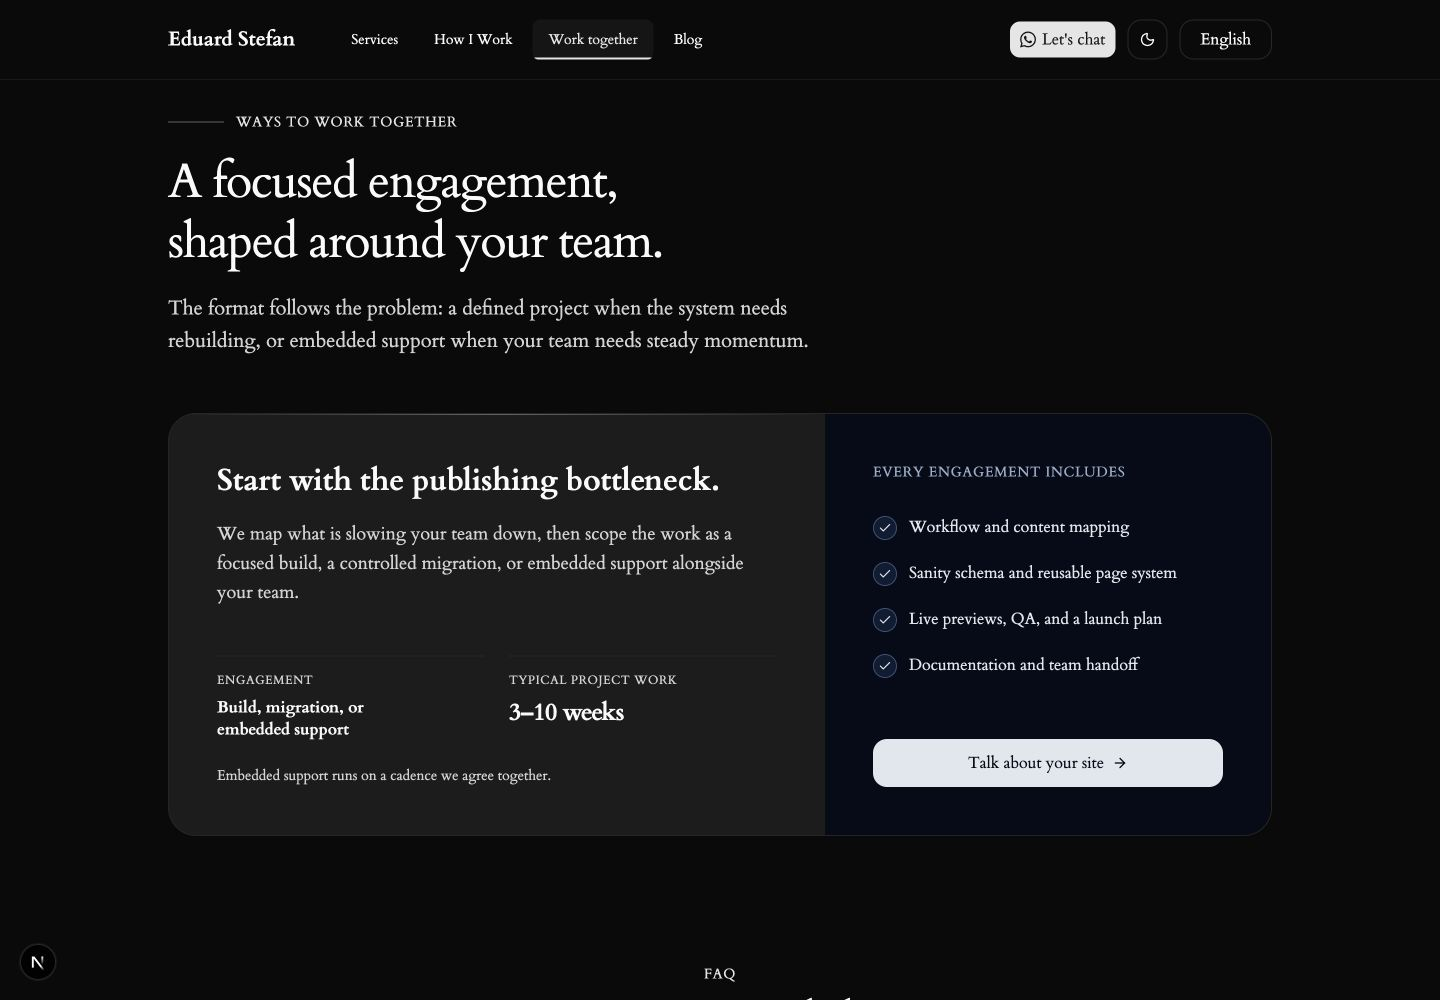
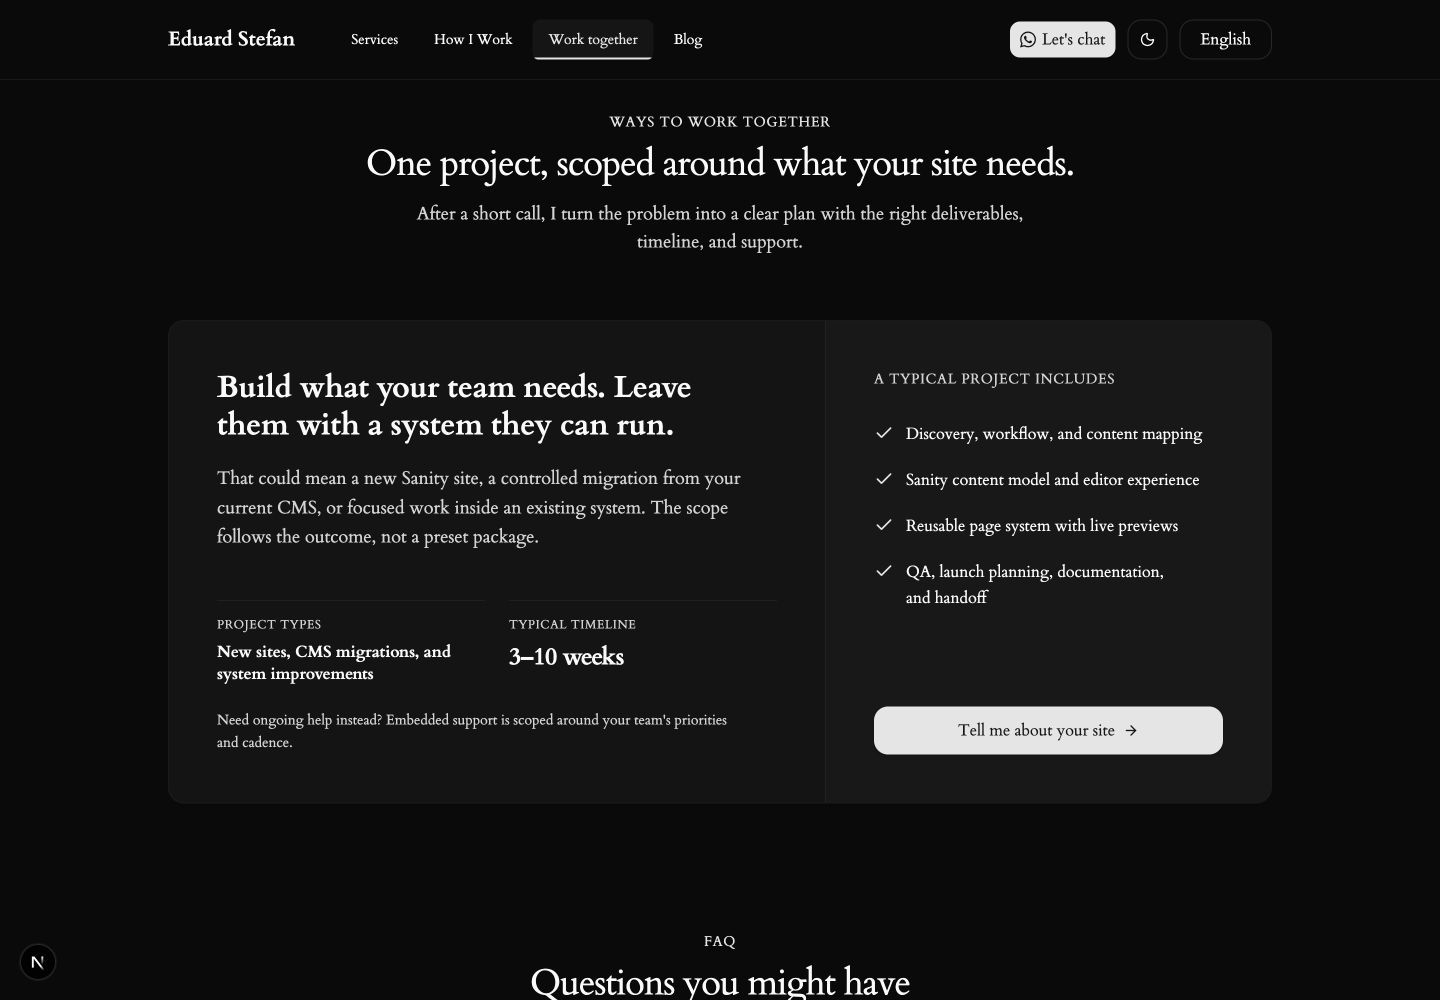
refine ways to work together design and copy

diff --git a/frontend/components/sections/ways-to-work-together-section.tsx b/frontend/components/sections/ways-to-work-together-section.tsx
@@ -1,5 +1,7 @@
 import { AnimatedContainer } from "@/components/ui/animated-container";
 import { Button } from "@/components/ui/button";
+import { Card, CardContent } from "@/components/ui/card";
+import { SectionHeader } from "@/components/ui/section-header";
 import { Link } from "@/i18n/navigation";
 import { ArrowRight, Check } from "lucide-react";
 import { getLocale, getTranslations } from "next-intl/server";
@@ -19,119 +21,86 @@ export default async function WaysToWorkTogetherSection() {
   const includedItems = t.raw("includedItems") as string[];
 
   return (
-    <section
-      id={sectionSlug}
-      aria-labelledby={`${sectionSlug}-title`}
-      className="scroll-mt-12 py-12 md:py-16"
-    >
+    <section id={sectionSlug} className="scroll-mt-12 py-12 md:py-16">
       <div className="mx-auto max-w-6xl px-4 md:px-6">
-        <AnimatedContainer
-          trigger="scroll"
-          fadeDirection="up"
-          className="mb-10 max-w-4xl md:mb-14"
-        >
-          <div className="mb-5 flex items-center gap-3">
-            <span
-              aria-hidden="true"
-              className="h-px w-10 bg-primary/40 md:w-14"
-            />
-            <p className="text-primary text-sm font-medium uppercase tracking-wider">
-              {t("label")}
-            </p>
-          </div>
-          <h2
-            id={`${sectionSlug}-title`}
-            className="text-foreground max-w-3xl text-3xl leading-tight tracking-tight text-balance md:text-5xl"
-          >
-            <a
-              href={`#${sectionSlug}`}
-              className="transition-colors hover:text-primary"
-            >
-              {t("headline")}
-            </a>
-          </h2>
-          <p className="text-muted-foreground mt-5 max-w-2xl text-lg leading-relaxed text-pretty md:text-xl">
-            {t("subtitle")}
-          </p>
-        </AnimatedContainer>
+        <SectionHeader
+          label={t("label")}
+          headline={t("headline")}
+          subtitle={t("subtitle")}
+          anchorSlug={sectionSlug}
+        />
 
         <AnimatedContainer
           trigger="scroll"
           fadeDirection="up"
           viewportMargin="-5%"
         >
-          <article className="overflow-hidden rounded-[1.75rem] border border-border/80 bg-card shadow-2xl shadow-foreground/5">
-            <div className="grid lg:grid-cols-[minmax(0,1.25fr)_minmax(22rem,0.85fr)]">
-              <div className="relative bg-secondary/35 p-6 sm:p-8 md:p-10 lg:p-12">
-                <div
-                  aria-hidden="true"
-                  className="pointer-events-none absolute inset-x-0 top-0 h-px bg-gradient-to-r from-transparent via-primary/35 to-transparent"
-                />
+          <Card className="overflow-hidden rounded-2xl border-border/30 bg-card/80 p-0 shadow-lg backdrop-blur-sm">
+            <CardContent className="p-0">
+              <div className="grid lg:grid-cols-[minmax(0,1.25fr)_minmax(22rem,0.85fr)]">
+                <div className="p-6 sm:p-8 md:p-10 lg:p-12">
+                  <h3 className="text-foreground max-w-2xl text-2xl font-semibold leading-tight text-balance md:text-3xl">
+                    {t("engagementTitle")}
+                  </h3>
+                  <p className="text-muted-foreground mt-5 max-w-2xl text-base leading-relaxed text-pretty md:text-lg">
+                    {t("description")}
+                  </p>
 
-                <h3 className="text-foreground max-w-xl text-2xl font-semibold leading-tight text-balance md:text-3xl">
-                  {t("engagementTitle")}
-                </h3>
-                <p className="text-muted-foreground mt-5 max-w-2xl text-base leading-relaxed text-pretty md:text-lg">
-                  {t("description")}
-                </p>
+                  <dl className="mt-10 grid gap-6 sm:grid-cols-2 md:mt-12">
+                    <div className="border-t border-border/60 pt-4">
+                      <dt className="text-muted-foreground text-xs font-medium uppercase tracking-wider">
+                        {t("scopeLabel")}
+                      </dt>
+                      <dd className="text-foreground mt-2 max-w-sm text-base font-semibold leading-snug text-pretty">
+                        {t("scopeValue")}
+                      </dd>
+                    </div>
+                    <div className="border-t border-border/60 pt-4">
+                      <dt className="text-muted-foreground text-xs font-medium uppercase tracking-wider">
+                        {t("timelineLabel")}
+                      </dt>
+                      <dd className="text-foreground mt-2 text-2xl font-semibold tracking-tight">
+                        {t("timelineValue")}
+                      </dd>
+                    </div>
+                  </dl>
 
-                <dl className="mt-10 grid gap-6 sm:grid-cols-2 md:mt-12">
-                  <div className="border-t border-border/80 pt-4">
-                    <dt className="text-muted-foreground text-xs font-medium uppercase tracking-wider">
-                      {t("scopeLabel")}
-                    </dt>
-                    <dd className="text-foreground mt-2 max-w-xs text-base font-semibold leading-snug text-pretty">
-                      {t("scopeValue")}
-                    </dd>
+                  <p className="text-muted-foreground mt-6 text-sm leading-relaxed text-pretty">
+                    {t("timelineNote")}
+                  </p>
+                </div>
+
+                <div className="flex flex-col border-t border-border/60 bg-muted/20 p-6 sm:p-8 md:p-10 lg:border-t-0 lg:border-l lg:p-12">
+                  <p className="text-muted-foreground text-sm font-medium uppercase tracking-wider">
+                    {t("includesTitle")}
+                  </p>
+
+                  <ul className="mt-8 space-y-5">
+                    {includedItems.map((item) => (
+                      <li key={item} className="flex items-start gap-3">
+                        <Check
+                          aria-hidden="true"
+                          className="text-primary mt-0.5 size-5 shrink-0"
+                        />
+                        <span className="text-foreground leading-relaxed text-pretty">
+                          {item}
+                        </span>
+                      </li>
+                    ))}
+                  </ul>
+
+                  <div className="mt-auto pt-10 md:pt-12">
+                    <Button asChild size="lg" className="min-h-12 w-full">
+                      <Link href="/start-your-project">
+                        {t("cta")}
+                        <ArrowRight aria-hidden="true" className="size-4" />
+                      </Link>
+                    </Button>
                   </div>
-                  <div className="border-t border-border/80 pt-4">
-                    <dt className="text-muted-foreground text-xs font-medium uppercase tracking-wider">
-                      {t("timelineLabel")}
-                    </dt>
-                    <dd className="text-foreground mt-2 text-2xl font-semibold tracking-tight">
-                      {t("timelineValue")}
-                    </dd>
-                  </div>
-                </dl>
-
-                <p className="text-muted-foreground mt-6 text-sm leading-relaxed text-pretty">
-                  {t("timelineNote")}
-                </p>
-              </div>
-
-              <div className="flex flex-col bg-navy-800 p-6 text-navy-50 sm:p-8 md:p-10 lg:p-12 dark:bg-navy-900">
-                <p className="text-navy-200 text-sm font-medium uppercase tracking-wider">
-                  {t("includesTitle")}
-                </p>
-
-                <ul className="mt-8 space-y-5">
-                  {includedItems.map((item) => (
-                    <li key={item} className="flex items-start gap-3">
-                      <span className="mt-0.5 flex size-6 shrink-0 items-center justify-center rounded-full border border-navy-400 bg-navy-700">
-                        <Check aria-hidden="true" className="size-3.5" />
-                      </span>
-                      <span className="leading-relaxed text-pretty">
-                        {item}
-                      </span>
-                    </li>
-                  ))}
-                </ul>
-
-                <div className="mt-auto pt-10 md:pt-12">
-                  <Button
-                    asChild
-                    size="lg"
-                    className="min-h-12 w-full bg-navy-50 text-navy-900 shadow-none hover:bg-navy-100 hover:shadow-none"
-                  >
-                    <Link href="/start-your-project">
-                      {t("cta")}
-                      <ArrowRight aria-hidden="true" className="size-4" />
-                    </Link>
-                  </Button>
                 </div>
               </div>
-            </div>
-          </article>
+            </CardContent>
+          </Card>
         </AnimatedContainer>
       </div>
     </section>
